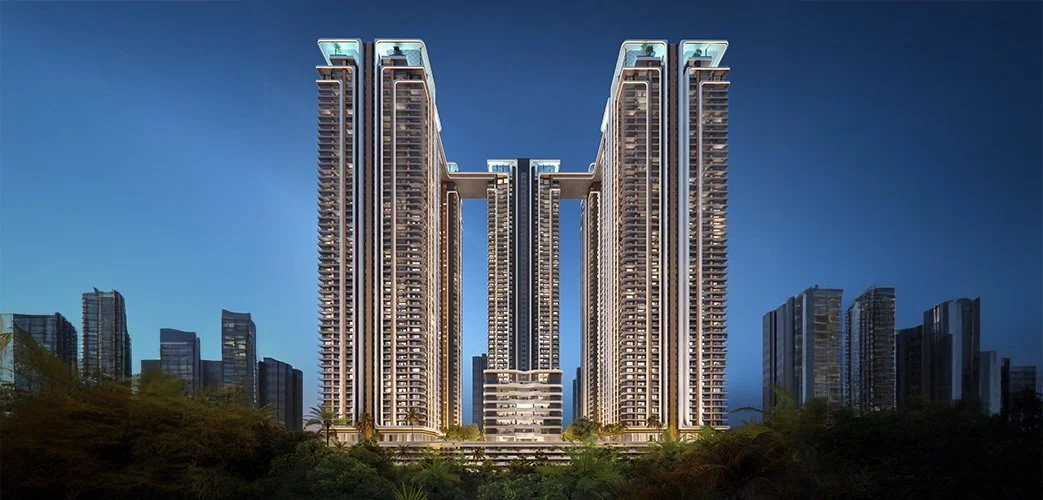
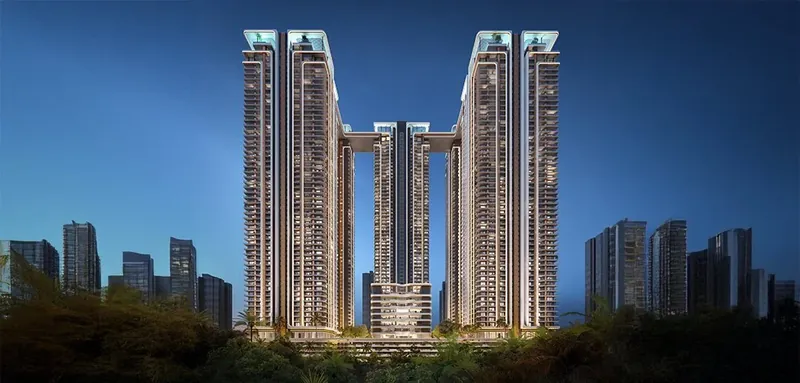
changes

diff --git a/src/App.css b/src/App.css
@@ -38,14 +38,14 @@ header {
 }
 
 .logo img {
-  height: 26px;
+  height: 38px;
   width: auto;
   display: block;
 }
 
 @media (max-width: 820px) {
   .logo img {
-    height: 22px;
+    height: 30px;
   }
 }
 
@@ -98,13 +98,14 @@ header {
 }
 
 .navcta:hover {
-  background: var(--brass-bright);
-  color: var(--ink);
+  background: transparent;
+  border-color: var(--brass-bright);
+  color: var(--brass-bright);
   transform: translateY(-1px);
-  box-shadow: 0 4px 14px rgba(214, 171, 92, 0.25);
 }
 
 .navcta:active {
+  background: transparent;
   transform: translateY(0);
 }
 
@@ -191,9 +192,9 @@ header {
   border-bottom: none;
   position: relative;
   background-image: 
-    linear-gradient(180deg, rgba(12, 13, 15, 0.72) 0%, rgba(12, 13, 15, 0.82) 45%, rgba(12, 13, 15, 0.95) 75%, var(--ink) 100%),
-    radial-gradient(circle at 75% 30%, rgba(184, 147, 74, 0.12) 0%, transparent 60%),
-    url('/hero-bg.jpg');
+    linear-gradient(180deg, rgba(12, 13, 15, 0.58) 0%, rgba(12, 13, 15, 0.68) 45%, rgba(12, 13, 15, 0.82) 75%, var(--ink) 100%),
+    radial-gradient(circle at 75% 30%, rgba(184, 147, 74, 0.14) 0%, transparent 60%),
+    url('/hero-bg.webp');
   background-size: cover;
   background-position: center 25%;
   background-repeat: no-repeat;
@@ -235,8 +236,7 @@ header {
   line-height: 1.06;
   max-width: 820px;
   letter-spacing: -0.015em;
-  animation: heroFadeUp 0.6s cubic-bezier(0.16, 1, 0.3, 1) 0.1s forwards;
-  opacity: 0;
+  content-visibility: visible;
 }
 
 .hero p.lede {
@@ -245,8 +245,6 @@ header {
   color: var(--muted);
   font-size: 1.05rem;
   line-height: 1.55;
-  animation: heroFadeUp 0.6s cubic-bezier(0.16, 1, 0.3, 1) 0.2s forwards;
-  opacity: 0;
 }
 
 @media (max-width: 768px) {
@@ -262,8 +260,6 @@ header {
   gap: 48px;
   margin-top: 52px;
   flex-wrap: wrap;
-  animation: heroFadeUp 0.6s cubic-bezier(0.16, 1, 0.3, 1) 0.3s forwards;
-  opacity: 0;
 }
 
 @media (max-width: 768px) {
@@ -278,6 +274,8 @@ header {
 .stat {
   display: flex;
   flex-direction: column;
+  align-items: center;
+  text-align: center;
   transition: transform 0.25s ease;
 }
 
@@ -307,6 +305,7 @@ header {
   color: var(--brass-bright);
   line-height: 1;
   margin-bottom: 4px;
+  text-align: center;
   transition: color 0.25s ease;
 }
 
@@ -323,6 +322,7 @@ header {
 .stat span {
   color: var(--muted);
   font-size: 0.85rem;
+  text-align: center;
 }
 
 /* ---- Section Headings ---- */
@@ -340,7 +340,7 @@ header {
 .section-head {
   display: flex;
   justify-content: space-between;
-  align-items: flex-end;
+  align-items: flex-start;
   margin-bottom: 38px;
   gap: 20px;
   flex-wrap: wrap;
@@ -528,8 +528,8 @@ header {
   display: inline-block;
   font-size: 0.75rem;
   color: #72dbd0;
-  background: rgba(44, 86, 82, 0.28);
-  border: 1px solid rgba(82, 163, 155, 0.45);
+  background: transparent;
+  border: 1px solid rgba(82, 163, 155, 0.5);
   padding: 5px 11px;
   border-radius: 20px;
   white-space: nowrap;
@@ -537,7 +537,7 @@ header {
 }
 
 .card:hover .save-pill {
-  background: rgba(44, 86, 82, 0.45);
+  background: transparent;
   border-color: var(--teal-bright);
 }
 
@@ -550,7 +550,7 @@ header {
 .card-brochure-btn {
   border: 1px solid var(--line-strong);
   color: var(--paper);
-  background: rgba(244, 241, 234, 0.04);
+  background: transparent;
   padding: 7px 13px;
   font-size: 0.82rem;
   font-weight: 500;
@@ -562,9 +562,9 @@ header {
 }
 
 .card-brochure-btn:hover {
-  background: rgba(244, 241, 234, 0.12);
+  background: transparent;
   border-color: var(--paper);
-  color: #ffffff;
+  color: var(--paper);
   transform: translateY(-1px);
 }
 
@@ -575,7 +575,7 @@ header {
 .card-cta-btn {
   border: 1px solid var(--brass);
   color: var(--brass-bright);
-  background: rgba(184, 147, 74, 0.08);
+  background: transparent;
   padding: 7px 16px;
   font-size: 0.82rem;
   font-weight: 500;
@@ -587,10 +587,10 @@ header {
 }
 
 .card-cta-btn:hover {
-  background: var(--brass-bright);
-  color: #08090a;
+  background: transparent;
+  border-color: var(--brass-bright);
+  color: var(--brass-bright);
   transform: translateY(-1px);
-  box-shadow: 0 4px 14px rgba(214, 171, 92, 0.3);
 }
 
 .card-cta-btn:active {

diff --git a/src/data/projects.js b/src/data/projects.js
@@ -1,7 +1,11 @@
 // Dataset for REET Spaces Group-Buy Projects in Hyderabad (Exact Match to Original Source)
+import cinqImg from '../assets/cinq.webp';
 import theCascadesImg from '../assets/the-cascades.webp';
 import aviraImg from '../assets/avira.webp';
-import altusImg from '../assets/altus.jpg';
+import altusImg from '../assets/altus.webp';
+import linqImg from '../assets/linq.webp';
+import haloImg from '../assets/halo.webp';
+import acasaImg from '../assets/acasa.webp';
 
 export const PROJECTS_DATA = [
   {
@@ -16,7 +20,8 @@ export const PROJECTS_DATA = [
     groupPriceMin: 3.50,
     groupPriceMax: 4.20,
     minGroupPill: 'Min. group: 4 buyers',
-    image: 'https://cinqbyraghava.in/images/banner/banner.webp'
+    image: cinqImg,
+    brochurePdf: 'https://drive.google.com/file/d/1YIjsqqlxG2GlabBiXCdSdKOnwdyYge1m/view?usp=sharing'
   },
   {
     id: 'the-cascades-neopolis',
@@ -30,7 +35,8 @@ export const PROJECTS_DATA = [
     groupPriceMin: 2.64,
     groupPriceMax: 5.10,
     minGroupPill: 'Min. group: 4 buyers',
-    image: theCascadesImg
+    image: theCascadesImg,
+    brochurePdf: 'https://drive.google.com/file/d/1Qu_E5v9dxlZnk9WVDfJYDXUnaTNEGZc1/view?usp=sharing'
   },
   {
     id: 'avira-by-avr',
@@ -44,7 +50,8 @@ export const PROJECTS_DATA = [
     groupPriceMin: 1.85,
     groupPriceMax: 2.25,
     minGroupPill: 'Min. group: 4 buyers',
-    image: aviraImg
+    image: aviraImg,
+    brochurePdf: 'https://drive.google.com/file/d/1aJAN1TjZwE3ihDPfprn3QfLu90M8U5FD/view?usp=sharing'
   },
   {
     id: 'altus-by-hallmark',
@@ -58,7 +65,8 @@ export const PROJECTS_DATA = [
     groupPriceMin: 1.39,
     groupPriceMax: 5.10,
     minGroupPill: 'Min. group: 4 buyers',
-    image: altusImg
+    image: altusImg,
+    brochurePdf: 'https://drive.google.com/file/d/1f59I9fCrx0u5WJNJbeCp7auiC_TZqG8Y/view?usp=drive_link'
   },
   {
     id: 'linq-by-raghava',
@@ -72,7 +80,8 @@ export const PROJECTS_DATA = [
     groupPriceMin: 1.65,
     groupPriceMax: 2.30,
     minGroupPill: 'Min. group: 4 buyers',
-    image: 'https://static.squareyards.com/resources/images/hyderabad/project-image/raghava-linq-project-project-large-image1-5544-opt-5bb4d9d3-6afd-4d41-9818-3dd3b0bd44cd.jpg'
+    image: linqImg,
+    brochurePdf: 'https://drive.google.com/file/d/1VmCd4WBJ1zQKY1-siwb1f7eJ2NeansQl/view?usp=sharing'
   },
   {
     id: 'halo-by-raghava',
@@ -86,7 +95,8 @@ export const PROJECTS_DATA = [
     groupPriceMin: 1.40,
     groupPriceMax: 2.00,
     minGroupPill: 'Min. group: 4 buyers',
-    image: 'https://static.squareyards.com/resources/images/hyderabad/project-image/raghava-halo-project-project-large-image1-8581-opt-8a29154b-d1ae-4b32-9f1e-141ee067a08d.jpg'
+    image: haloImg,
+    brochurePdf: 'https://drive.google.com/file/d/11Q2_d7HFjzky3PEUKDM5pDhG1ZKuNfY1/view?usp=sharing'
   },
   {
     id: 'globus-luxury-villas',
@@ -100,7 +110,7 @@ export const PROJECTS_DATA = [
     groupPriceMin: 1.49,
     groupPriceMax: 1.49,
     minGroupPill: 'Min. group: 4 villas',
-    image: '/Globus Luxury Villas.jpg'
+    image: '/Globus Luxury Villas.webp'
   },
   {
     id: 'acasa-by-simchah',
@@ -114,7 +124,8 @@ export const PROJECTS_DATA = [
     groupPriceMin: 3.90,
     groupPriceMax: 4.55,
     minGroupPill: 'Min. group: 4 buyers',
-    image: 'https://static.squareyards.com/resources/images/hyderabad/project-image/simchah-acasa-project-project-large-image1-3411.jpg'
+    image: acasaImg,
+    brochurePdf: 'https://drive.google.com/file/d/1Vv4ezR_tFA8gsqg1ka4RDFpNc9tG3T9l/view?usp=drive_link'
   }
 ];
 

diff --git a/src/components/ProjectsGrid.jsx b/src/components/ProjectsGrid.jsx
@@ -23,7 +23,14 @@ export default function ProjectsGrid({ onSelectProjectAction }) {
           {PROJECTS_DATA.map((project) => (
             <div key={project.id} className="card">
               <div className="card-img-wrap">
-                <img src={project.image} alt={project.title} />
+                <img 
+                  src={project.image} 
+                  alt={project.title} 
+                  loading="lazy"
+                  decoding="async"
+                  width="600"
+                  height="330"
+                />
               </div>
               <div className="card-body">
                 <div className="card-loc">{project.location}</div>
@@ -42,13 +49,25 @@ export default function ProjectsGrid({ onSelectProjectAction }) {
                 <div className="card-action-row">
                   <span className="save-pill">{project.minGroupPill}</span>
                   <div className="card-btns">
-                    <a 
-                      href="#contact-form"
-                      className="card-brochure-btn"
-                      onClick={(e) => handleClick(e, project, 'brochure')}
-                    >
-                      Download brochure
-                    </a>
+                    {project.brochurePdf ? (
+                      <a 
+                        href={project.brochurePdf}
+                        {...(!project.brochurePdf.startsWith('http') ? { download: true } : {})}
+                        target="_blank"
+                        rel="noopener noreferrer"
+                        className="card-brochure-btn"
+                      >
+                        Download brochure
+                      </a>
+                    ) : (
+                      <a 
+                        href="#contact-form"
+                        className="card-brochure-btn"
+                        onClick={(e) => handleClick(e, project, 'brochure')}
+                      >
+                        Download brochure
+                      </a>
+                    )}
                     <a 
                       href="#contact-form"
                       className="card-cta-btn"

diff --git a/index.html b/index.html
@@ -7,7 +7,8 @@
     <meta name="description" content="REET Spaces pools verified buyers into purchase groups for Hyderabad's strongest new luxury launches, unlocking direct developer channel partner pricing." />
     <link rel="preconnect" href="https://fonts.googleapis.com">
     <link rel="preconnect" href="https://fonts.gstatic.com" crossorigin>
-    <link href="https://fonts.googleapis.com/css2?family=Fraunces:ital,opsz,wght@0,9..144,300..800;1,9..144,300..800&family=Inter:wght@300;400;500;600;700;800&display=swap" rel="stylesheet">
+    <link rel="preload" as="image" href="/hero-bg.webp" type="image/webp" fetchpriority="high">
+    <link href="https://fonts.googleapis.com/css2?family=Fraunces:opsz,wght@9..144,400;9..144,500;9..144,600&family=Inter:wght@400;500;600;700&display=swap" rel="stylesheet">
     <link rel="icon" type="image/png" href="/favicon.png" />
     <link rel="apple-touch-icon" href="/favicon.png" />
   </head>

diff --git a/src/components/Navbar.jsx b/src/components/Navbar.jsx
@@ -1,6 +1,6 @@
 import React, { useState } from 'react';
 import { Menu, X } from 'lucide-react';
-import logoImg from '../assets/reet-logo.png';
+import logoImg from '../assets/reet-logo.webp';
 
 export default function Navbar() {
   const [mobileMenuOpen, setMobileMenuOpen] = useState(false);

diff --git a/src/components/Footer.jsx b/src/components/Footer.jsx
@@ -1,5 +1,5 @@
 import React from 'react';
-import logoImg from '../assets/reet-logo.png';
+import logoImg from '../assets/reet-logo.webp';
 
 export default function Footer() {
   return (
